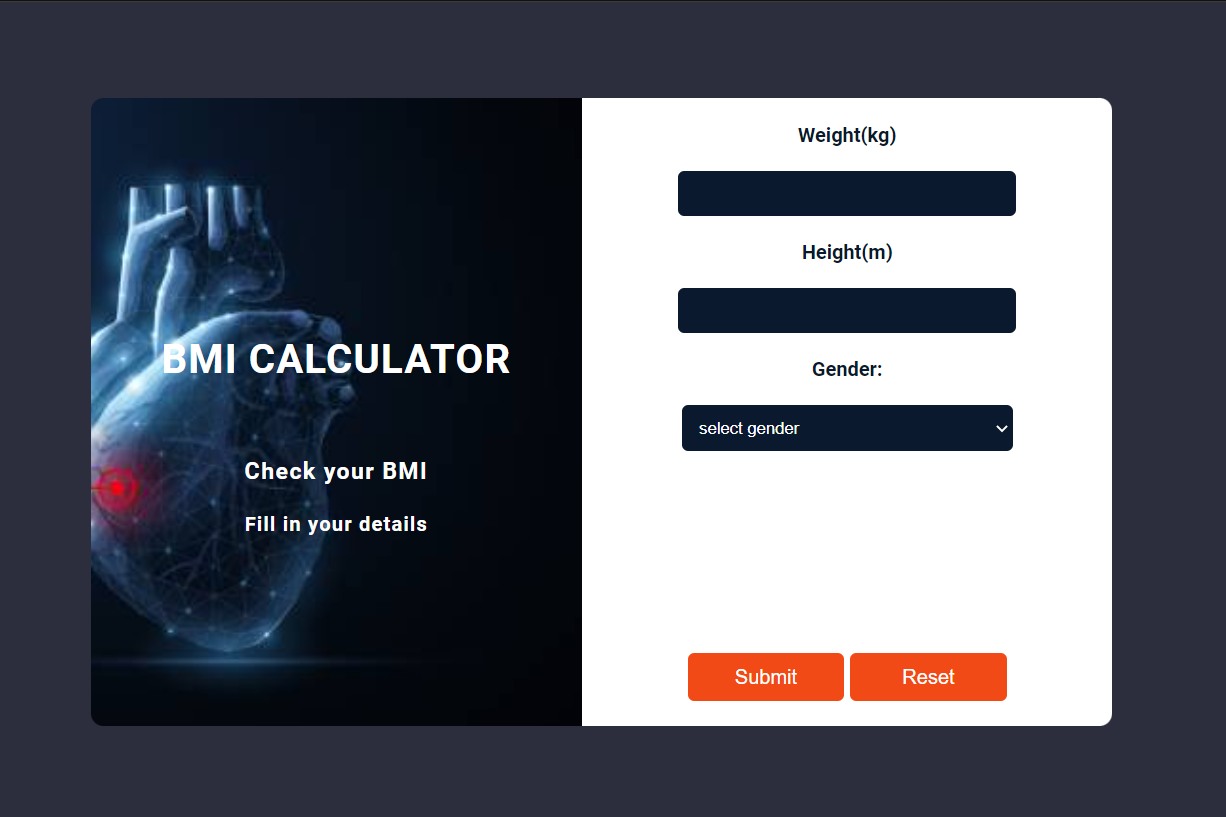
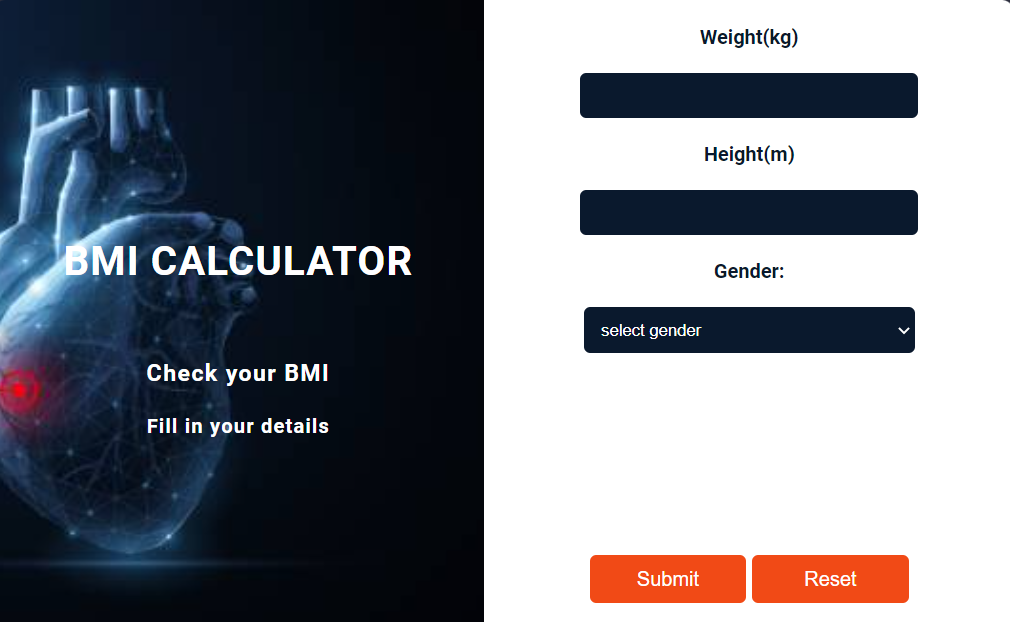
more mody going-on

diff --git a/src/Pages/Home.js b/src/Pages/Home.js
@@ -32,7 +32,7 @@ import advice_gen_app from "../Assets/advice_gen_app.png";
 import Rest_countries_API from "../Assets/Rest_countries_API.png";
 import signUpForm from "../Assets/signUpForm.png";
 import BmiApp from "../Assets/BmiApp.png";
-import Macaw from "../Assets/Macaw.png";
+import Docre from "../Assets/Docre.png";
 import Dialog from "@mui/material/Dialog";
 
 const skillList = [
@@ -135,9 +135,28 @@ const projectLists = [
     image: <img src={advice_gen_app} alt="" style={{ height: "100%" }} />,
   },
   {
+    title: "Docre Blog",
+    description:
+      "This is a blog website where users can upload their articles in a conventional style with accompanying avatars, titles, and URLs of the article. Built with React, pure CSS, RESTFUL APIs and Axios.",
+    githubRepo: "https://github.com/chilara/Docre-Blog",
+    liveSite: "https://capstone-project-chilara.vercel.app/",
+    image: (
+      <img
+        src={Docre}
+        alt=""
+        style={{
+          height: "60%",
+          width: "90%",
+          marginTop: "15%",
+          marginLeft: "5%",
+        }}
+      />
+    ),
+  },
+  {
     title: "REST Countries API",
     description:
-      "This Project is basically a website that displays country data. You can also view more detailed information about a particular country. User can also toggle color scheme between light and dark mode. Built with react, styled-components, tailwind, redux, Material UI.",
+      "This Project is basically a website that displays country data. You can also view more detailed information about a particular country. User can also toggle color scheme between light and dark mode. Built with React, styled-components, tailwind, redux, Material UI.",
     githubRepo: "https://github.com/chilara/rest-country-api",
     liveSite: "",
     image: <img src={Rest_countries_API} alt="" style={{ height: "100%" }} />,
@@ -148,15 +167,18 @@ const projectLists = [
       "BMI calculator (Body Mass Index) is built for the health-tech sector. It is a way of estimating the amount of body fat. This product is used to calculate the risk of heart disease and check if an individual has a healthy body weight. Built with HTML, CSS and JavaScript.",
     githubRepo: "https://github.com/chilara/BMI-calculator",
     liveSite: "https://chilara.github.io/BMI-calculator/",
-    image: <img src={BmiApp} alt="" style={{ height: "100%" }} />,
-  },
-  {
-    title: "Macaw Consult",
-    description:
-      "Macaw Consult is a client-centred global logistics provider that is passionate about serving its clients with excellence in meeting their unique needs by providing end-to-end services. Built with HTML and CSS.",
-    githubRepo: "https://github.com/chilara/macaw-consult",
-    liveSite: "https://chilara.github.io/macaw-consult/",
-    image: <img src={Macaw} alt="" style={{ height: "100%" }} />,
+    image: (
+      <img
+        src={BmiApp}
+        alt=""
+        style={{
+          height: "63%",
+          width: "90%",
+          marginTop: "15%",
+          marginLeft: "5%",
+        }}
+      />
+    ),
   },
   {
     title: "BootCamp Sign-up form",

diff --git a/src/Styles/Content.module.css b/src/Styles/Content.module.css
@@ -212,11 +212,11 @@ main.ServicesMain:hover {
 }
 
 .boxOne h1 {
-  @apply mt-10 text-3xl;
+  @apply mt-8 text-3xl;
 }
 
 .boxTwo {
-  @apply rounded-tl-lg rounded-bl-lg;
+  background-color: #f0f0f0;
   height: 390px;
   width: 496px;
   box-shadow: 4px 4px 10px rgba(0, 0, 0, 0.25);
@@ -265,11 +265,6 @@ main.ServicesMain:hover {
 .DialogContainer {
   @apply;
 }
-
-/* .DialogT {
-  @apply flex items-center justify-between px-5;
-  width: 40vw;
-} */
 
 .DialogContainer button:focus {
   outline: none;
